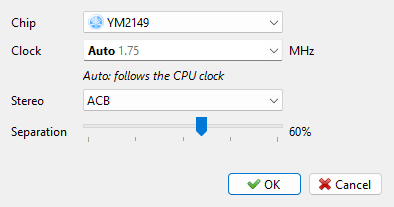
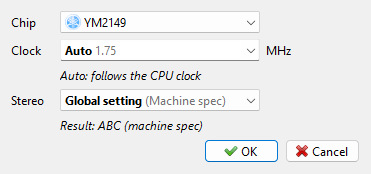
manual: Sound, Machine - the board's value marked Machine spec, Separation for every machine, the mark after the list

diff --git a/docs/manual/options-sound.md b/docs/manual/options-sound.md
@@ -45,8 +45,8 @@ Under it are four groups.
 
 **Stereo** and **Filters**, side by side, are how every machine is heard. This is a matter
 of taste, as a shader is, so it is set once here for all of them and stays when the machine
-changes. A machine can have its own **PSG stereo**, **Separation** and **Board filter** over
-these (see [A machine's own](#a-machines-own) below).
+changes. A machine can have its own **PSG stereo** and **Board filter** over these (see
+[A machine's own](#a-machines-own) below).
 
 **Stereo**:
 
@@ -57,6 +57,7 @@ these (see [A machine's own](#a-machines-own) below).
   the machine's **Machine: PSG**. The ZX Next keeps the order its own software sets.
 - **Separation** - how far apart the left and right sides are, for the sound chips (the ZX
   Next's too) and the General Sound: 100% keeps them fully apart, 0% is mono. 75% at first.
+  It is one for every machine.
 
 ```{index} Low cut (DC), High cut (anti-alias), anti-alias filter
 ```
@@ -94,32 +95,28 @@ The rest of the **Sound** page is the same for every machine.
 
 ## A machine's own
 
-```{index} A machine's own, Apply to all machines, Overridden, Global setting, Machine spec
+```{index} A machine's own, Overridden, Global setting, Machine spec
 ```
 
-A machine can be heard otherwise than this page says: its **PSG stereo** and **Separation**
-in **Machine: PSG** (see [PSG](options-machine.md#psg)), its **Board filter** on the
-**Machine** page (see [Board filter](options-machine.md#board-filter)). The first two
-choices of those lists say in gray what they stand for:
+A machine can be heard otherwise than this page says: its **PSG stereo** in **Machine: PSG**
+(see [PSG](options-machine.md#psg)), its **Board filter** on the **Machine** page (see
+[Board filter](options-machine.md#board-filter)). Those lists have:
 
-- **Global setting**, the default - this page's choice: **Global setting (ABC, 75%)**, or
-  with **By machine** here, **Global setting (Machine spec)**: each machine as its board was
-  made. What it gives this machine is noted under **Stereo** in **Machine: PSG** - **Result:
-  Mono (machine spec)** - and in the **Board filter**'s tooltip;
-- **Machine spec** - how its board was made, whatever this page says: **Machine spec (TV
-  (RF))**;
-- then, under a line, the values.
+- **Global setting**, the default - this page's choice, named in gray: **Global setting
+  (ABC)**, or with **By machine** here, **Global setting (Machine spec)**: each machine as
+  its board was made. What it gives this machine is noted under **Stereo** in **Machine:
+  PSG** - **Result: Mono (machine spec)** - and in the **Board filter**'s tooltip;
+- then, under a line, the values. The one the board was made with is marked: **Mono
+  (Machine spec)**, **TV (RF) (Machine spec)**.
 
 Any choice but the first is the machine's own. It is heard whatever this page says, and a
 change here does not take it away. The first choice puts the machine back on this page.
 
-While some machine has a choice of its own, the foot of **Stereo** or **Filters** says
-how many, marked {icon}`exclamation` - **Overridden: 2** - and its tooltip names them, one a
-line, with what each one has. **Apply to all machines** beside it, grayed out while there
-are none, sets that group's choice for every machine at once: **Stereo**'s order and
-**Separation**, taking their own order and separation away, or **Filters**' board filter,
-taking theirs. It asks first, with the same list, and keeps whatever else you changed on
-them. **Cancel** in **Options** does not undo it.
+While some machine has a choice of its own, a button marked {icon}`exclamation` stands
+after **PSG stereo** or **Board filter** with how many do, and its tooltip names them, one
+a line, with what each one has. A click on it sets that list's choice for every machine at
+once, taking their own away. It asks first, with the same list, and keeps whatever else you
+changed on them. **Cancel** in **Options** does not undo it.
 
 The ZX Next has no choices of its own here: it is heard as this page says.
 
@@ -135,7 +132,8 @@ picks what every machine sounds through. Its choices are also under the arrow of
 toolbar's {icon}`speaker` **Mute** button and in **Sound** of the right-click menu, and with
 them, under **Output filters**, **Low cut (DC)** and **High cut (anti-alias)**. They are
 this page's: when the running machine is heard through a filter of its own, the menu says so
-over them.
+over them. **By machine** there names what it gives the running machine: **By machine (TV
+(RF))**.
 
 The filter runs in the machine's time, so it slows down and speeds up with it: in **Slow
 Motion** a high tone it cuts stays cut as it drops in pitch.

diff --git a/docs/manual/options-machine.md b/docs/manual/options-machine.md
@@ -188,13 +188,12 @@ heard through:
 - **Global setting**, the default - the **Board filter** of the **Sound** page, in gray:
   **Global setting (No filter)**, or with **By machine** there, **Global setting (Machine
   spec)**, its board's own. Its tooltip says what this machine is heard through.
-- **Machine spec** - its board's own: **Machine spec (TV (RF))** on the 128K, **Machine
-  spec (No filter)** on the Pentagon.
-- under a line, **No filter** and the other filters.
+- under a line, **No filter** and the other filters. The board's own is marked: **TV (RF)
+  (Machine spec)** on the 128K, **No filter (Machine spec)** on the Pentagon.
 
 Every choice but the first is this machine's own, heard whatever the **Sound** page says.
-A filter picked takes all of the sound, so **TV (RF)** is not **Machine spec (TV (RF))**,
-which filters what the board filtered. The filters are
+The marked one filters what the board filtered; another filter takes all of the sound. The
+wheel does not change the list while it is closed. The filters are
 described in [Board filter](options-sound.md#board-filter); [A machine's own](options-sound.md#a-machines-own)
 says how the **Sound** page shows the machines with a choice of their own.
 
@@ -225,7 +224,7 @@ same.
 
 The {icon}`settings` gear opens **Machine: PSG**:
 
-![Machine: PSG, an order of the machine's own](images/options-machine-psg.png)
+![Machine: PSG](images/options-machine-psg.png)
 
 
 - **Chip** - **AY-3-8910** or **YM2149**. The two sound alike; the YM2149 plays volume
@@ -238,15 +237,12 @@ The {icon}`settings` gear opens **Machine: PSG**:
   You can also type a clock of your own.
 - **Stereo** - the order of the three voices from left to right for this machine. The
   first choice, the default, is **PSG stereo** of the **Sound** page - **Global setting
-  (ABC, 75%)**, or with **By machine** there, **Global setting (Machine spec)**: how this
+  (ABC)**, or with **By machine** there, **Global setting (Machine spec)**: how this
   board sends them out. The line under it says what you hear: **Result: Mono (machine
-  spec)**. **Machine spec** is the board's own whatever the **Sound** page says: **Machine
-  spec (Mono)** on the 128K, **Machine spec (ABC)** on the Pentagon. **Mono** or another
-  order is this machine's own too (see [A machine's own](options-sound.md#a-machines-own)).
-- **Separation** - with an order of the machine's own, how far apart its sides are, as
-  **Separation** on the **Sound** page is for the others. It starts at that page's value.
-  With the first choice, the board's own or **Mono** it is grayed out, at the **Sound**
-  page's.
+  spec)**. **Mono** or an order is this machine's own, whatever the **Sound** page says;
+  the board's own is marked: **Mono (Machine spec)** on the 128K, **ABC (Machine spec)**
+  on the Pentagon (see [A machine's own](options-sound.md#a-machines-own)). How far apart
+  the sides are is **Separation** on the **Sound** page, for every machine.
 
 ### DAC
 
